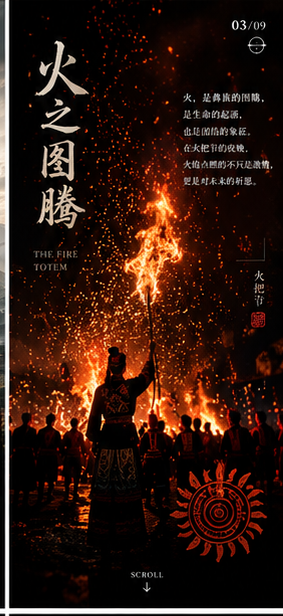
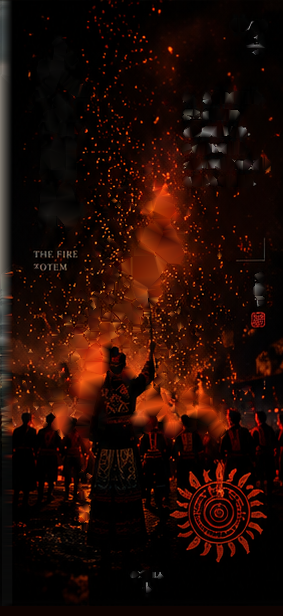
feat: 恢复干净无文字背景图 + 纯HTML动画文字层（去掉色块盖字方案）

diff --git a/index.html b/index.html
@@ -34,42 +34,21 @@ html,body,div,section{scrollbar-width:none!important;-ms-overflow-style:none!imp
 .slide{position:relative;height:100vh;scroll-snap-align:start;overflow:hidden;
   background-image:var(--img);background-size:100% 100%;background-position:center}
 
-/* ===== 共用：文字层 ===== */
+/* ===== 动画公共基类 ===== */
 .anim{position:absolute;z-index:10;pointer-events:none;opacity:0}
 
-/* ===== 共用：色块（盖原图字用） ===== */
-.cover-block{position:absolute;z-index:9;pointer-events:none;
-  background:rgba(0,0,0,.72);border-radius:2px;
-  /* 轻微模糊让边缘不生硬 */
-  box-shadow:0 0 6px rgba(0,0,0,.3)}
-
 /* ==================================================================
-   SLIDE 1: 封面
+   SLIDE 1: 封面 —— 基于原始图片 (283×616) 百分比定位
    ================================================================== */
 
-/* 原图文字位置（从图片分析得到）：
-   顶部 "中国·彝族"      : x=12%, y=8%
-   主标题 "彝境"        : x=10%, y=22%, 占 20%宽 × 12%高
-   英文 YI CULTURAL...  : x=12%, y=38%
-   标语 "让千年的火..."  : x=12%, y=50%
-   底部 "彝族非遗..."    : x=10%, y=84%
-*/
-
-/* ① 色块：顶部 + 主标题区域 */
-.s1-block1{left:8%;top:6%;width:30%;height:40%;background:rgba(0,0,0,.78)}
-/* ② 色块：中部标语区域 */
-.s1-block2{left:8%;top:48%;width:45%;height:12%;background:rgba(0,0,0,.72)}
-/* ③ 色块：底部 */
-.s1-block3{left:6%;top:82%;width:40%;height:6%;background:rgba(0,0,0,.68)}
-
 /* ① 顶部「中国·彝族」 */
-.cover .t-top{left:12%;top:8%;font-size:13px;color:rgba(255,255,255,.78);letter-spacing:6px;font-weight:500}
+.cover .t-top{left:16%;top:5%;font-size:12px;color:rgba(255,255,255,.75);letter-spacing:5px;font-weight:500}
 .cover .t-top{transform:translateY(10px)}
 .cover.active .t-top{opacity:1;transform:none;transition:opacity .6s ease-out .15s,transform .6s ease-out .15s}
 
 /* ② 主标题「彝境」：逐字弹入 */
-.cover .t-title{left:12%;top:22%;font-family:"Noto Serif SC","STSong","Songti SC","Ma Shan Zheng",serif;
-  font-size:88px;font-weight:900;letter-spacing:14px;line-height:1;
+.cover .t-title{left:8%;top:16%;font-family:"Noto Serif SC","STSong","Songti SC","Ma Shan Zheng",serif;
+  font-size:88px;font-weight:900;letter-spacing:12px;line-height:1;
   color:#fff;text-shadow:0 0 24px rgba(232,200,122,.7),0 0 48px rgba(232,200,122,.3)}
 .cover .t-title .ch{display:inline-block;opacity:0;transform:translateY(20px) scale(.85);
   transition:opacity .7s ease,transform .8s cubic-bezier(.22,1.2,.36,1)}
@@ -77,17 +56,18 @@ html,body,div,section{scrollbar-width:none!important;-ms-overflow-style:none!imp
 .cover.active .t-title .ch:nth-child(1){transition-delay:.55s}
 .cover.active .t-title .ch:nth-child(2){transition-delay:.72s}
 
-/* ② 英文 + 金色分割线 */
-.cover .t-en{left:12%;top:38%;font-size:11px;font-weight:500;letter-spacing:5px;color:rgba(255,255,255,.85);
+/* ② 英文 YI CULTURAL HERITAGE */
+.cover .t-en{left:24%;top:28%;font-size:10px;font-weight:500;letter-spacing:4px;color:rgba(255,255,255,.85);
   text-transform:uppercase;transform:translateY(8px)}
 .cover.active .t-en{opacity:1;transform:none;transition:opacity .6s ease-out .92s,transform .6s ease-out .92s}
 
-.cover .t-line{left:12%;top:43%;width:0;height:2px;border-radius:1px;
+/* ② 金色分割线 */
+.cover .t-line{left:24%;top:32%;width:0;height:2px;border-radius:1px;
   background:linear-gradient(90deg,#e8c87a,#f6e3a7);box-shadow:0 0 12px rgba(232,200,122,.7)}
-.cover.active .t-line{width:55%;transition:width 1s cubic-bezier(.16,1,.3,1) .95s}
+.cover.active .t-line{width:50%;transition:width 1s cubic-bezier(.16,1,.3,1) .95s}
 
-/* ③ 标语「让千年的火，继续燃烧。」逐字 */
-.cover .t-slogan{left:12%;top:50%;font-size:15px;color:rgba(255,255,255,.9);letter-spacing:4px;font-weight:500}
+/* ③ 标语「让千年的火，继续燃烧。」逐字打字机 */
+.cover .t-slogan{left:60%;top:66%;font-size:12px;color:rgba(255,255,255,.85);letter-spacing:3px;font-weight:500}
 .cover .t-slogan .ch{display:inline-block;opacity:0;transform:translateY(6px);transition:opacity .35s ease,transform .4s ease}
 .cover.active .t-slogan .ch{opacity:1;transform:none}
 .cover.active .t-slogan .ch:nth-child(1){transition-delay:1.2s}
@@ -103,27 +83,22 @@ html,body,div,section{scrollbar-width:none!important;-ms-overflow-style:none!imp
 .cover.active .t-slogan .ch:nth-child(11){transition-delay:2.00s}
 
 /* ④ 底部 */
-.cover .t-bot{left:10%;top:84%;font-size:12px;color:rgba(255,255,255,.7);letter-spacing:4px;transform:translateY(12px)}
+.cover .t-bot{left:10%;top:80%;font-size:11px;color:rgba(255,255,255,.7);letter-spacing:3px;transform:translateY(12px)}
 .cover.active .t-bot{opacity:1;transform:none;transition:opacity .7s ease-out 1.7s,transform .7s ease-out 1.7s}
-.cover .t-scroll{right:12%;top:84%;font-size:10px;color:rgba(255,255,255,.5);letter-spacing:3px;transform:translateY(12px)}
+.cover .t-scroll{right:12%;top:80%;font-size:10px;color:rgba(255,255,255,.5);letter-spacing:3px;transform:translateY(12px)}
 .cover.active .t-scroll{opacity:1;transform:none;transition:opacity .7s ease-out 1.9s,transform .7s ease-out 1.9s}
 
 /* ==================================================================
    SLIDES 2-8: 内页
    ================================================================== */
 
-/* 内页色块 */
-.inner-block1{left:6%;top:4%;width:24%;height:30%;background:rgba(0,0,0,.75)}  /* 左上标题区 */
-.inner-block2{left:55%;top:20%;width:42%;height:48%;background:rgba(0,0,0,.68)} /* 右侧描述区 */
-.inner-block3{left:6%;top:88%;width:24%;height:5%;background:rgba(0,0,0,.65)}  /* 底部编号 */
-
 /* 顶部编号 */
-.inner .t-top{left:10%;top:6%;font-size:11px;color:rgba(255,255,255,.55);letter-spacing:4px;font-weight:500;transform:translateY(8px)}
+.inner .t-top{right:10%;top:3%;font-size:10px;color:rgba(255,255,255,.5);letter-spacing:3px;font-weight:500;transform:translateY(8px)}
 .inner.active .t-top{opacity:1;transform:none;transition:opacity .5s ease-out .1s,transform .5s ease-out .1s}
 
-/* 左主标题 */
-.inner .t-title{left:10%;top:14%;font-family:"Noto Serif SC","STSong","Songti SC",serif;
-  font-size:42px;font-weight:900;letter-spacing:6px;line-height:1.15;
+/* 左主标题（原始位置 x~15%, y~15%） */
+.inner .t-title{left:12%;top:14%;font-family:"Noto Serif SC","STSong","Songti SC",serif;
+  font-size:42px;font-weight:900;letter-spacing:5px;line-height:1.15;
   color:#fff;text-shadow:0 0 18px rgba(232,200,122,.6),0 0 36px rgba(232,200,122,.25)}
 .inner .t-title .ch{display:inline-block;opacity:0;transform:translateX(-20px);transition:opacity .5s ease,transform .65s cubic-bezier(.34,1.56,.64,1)}
 .inner.active .t-title .ch{opacity:1;transform:none}
@@ -133,35 +108,28 @@ html,body,div,section{scrollbar-width:none!important;-ms-overflow-style:none!imp
 .inner.active .t-title .ch:nth-child(4){transition-delay:.66s}
 
 /* 英文副标题 */
-.inner .t-en{left:10%;top:26%;font-size:9px;font-weight:500;letter-spacing:3px;color:rgba(255,255,255,.8);text-transform:uppercase;transform:translateY(6px)}
+.inner .t-en{left:14%;top:26%;font-size:9px;font-weight:500;letter-spacing:3px;color:rgba(255,255,255,.8);text-transform:uppercase;transform:translateY(6px)}
 .inner.active .t-en{opacity:1;transform:none;transition:opacity .5s ease-out .82s,transform .5s ease-out .82s}
 
 /* 金色分割线 */
-.inner .t-line{left:10%;top:30%;width:0;height:2px;border-radius:1px;background:linear-gradient(90deg,#e8c87a,#f6e3a7);box-shadow:0 0 10px rgba(232,200,122,.6)}
-.inner.active .t-line{width:50%;transition:width .8s cubic-bezier(.16,1,.3,1) .85s}
+.inner .t-line{left:14%;top:30%;width:0;height:2px;border-radius:1px;background:linear-gradient(90deg,#e8c87a,#f6e3a7);box-shadow:0 0 10px rgba(232,200,122,.6)}
+.inner.active .t-line{width:48%;transition:width .8s cubic-bezier(.16,1,.3,1) .85s}
 
 /* 右描述文字 */
-.inner .t-desc{right:10%;top:28%;font-size:13px;line-height:1.9;color:rgba(255,255,255,.88);max-width:38%;text-align:left}
-.inner .t-desc p{opacity:0;transform:translateY(10px);margin-bottom:6px;transition:opacity .5s ease,transform .55s cubic-bezier(.16,1,.3,1)}
+.inner .t-desc{right:8%;top:28%;font-size:12px;line-height:1.9;color:rgba(255,255,255,.88);max-width:40%;text-align:left}
+.inner .t-desc p{opacity:0;transform:translateY(10px);margin-bottom:5px;transition:opacity .5s ease,transform .55s cubic-bezier(.16,1,.3,1)}
 .inner.active .t-desc p{opacity:1;transform:none}
 .inner.active .t-desc p:nth-child(1){transition-delay:.95s}
 .inner.active .t-desc p:nth-child(2){transition-delay:1.10s}
 .inner.active .t-desc p:nth-child(3){transition-delay:1.25s}
 
 /* 底部编号 */
-.inner .t-bot{left:10%;top:90%;font-size:11px;color:rgba(255,255,255,.55);letter-spacing:3px;transform:translateY(8px)}
+.inner .t-bot{left:12%;top:92%;font-size:10px;color:rgba(255,255,255,.5);letter-spacing:3px;transform:translateY(8px)}
 .inner.active .t-bot{opacity:1;transform:none;transition:opacity .5s ease-out 1.35s,transform .5s ease-out 1.35s}
-
-/* ==================================================================
-   SLIDE 5 特殊：黑与红 有右侧色卡
-   ================================================================== */
-.s5-block4{right:6%;top:38%;width:28%;height:38%;background:rgba(0,0,0,.62)}  /* 右侧色卡区 */
 
 /* ==================================================================
    SLIDE 9: 结尾
    ================================================================== */
-.ending-block1{left:22%;top:22%;width:56%;height:38%;background:rgba(0,0,0,.72)}  /* 中央大字区 */
-.ending-block2{left:22%;top:62%;width:56%;height:10%;background:rgba(0,0,0,.65)}  /* 底部标语 */
 
 .ending .t-center{left:30%;top:26%;font-family:"Noto Serif SC","STSong","Songti SC",serif;
   font-size:64px;font-weight:900;letter-spacing:10px;line-height:1.15;
@@ -179,21 +147,20 @@ html,body,div,section{scrollbar-width:none!important;-ms-overflow-style:none!imp
 .ending .t-line{left:30%;top:45%;width:0;height:2px;border-radius:1px;background:linear-gradient(90deg,#e8c87a,#f6e3a7);box-shadow:0 0 10px rgba(232,200,122,.6)}
 .ending.active .t-line{width:38%;transition:width .9s cubic-bezier(.16,1,.3,1) .92s}
 
-.ending .t-slogan{left:30%;top:52%;font-size:14px;color:rgba(255,255,255,.85);letter-spacing:3px;transform:translateY(8px)}
+.ending .t-slogan{left:30%;top:52%;font-size:13px;color:rgba(255,255,255,.85);letter-spacing:3px;transform:translateY(8px)}
 .ending.active .t-slogan{opacity:1;transform:none;transition:opacity .6s ease-out 1.1s,transform .6s ease-out 1.1s}
 
 /* ========== 移动端响应式 ========== */
 @media (max-width:375px){
-  .cover .t-title{font-size:72px;letter-spacing:12px}
-  .inner .t-title{font-size:34px;letter-spacing:4px}
-  .ending .t-center{font-size:52px;letter-spacing:8px}
-  .inner .t-desc{font-size:12px}
-  .cover .t-slogan{font-size:13px}
+  .cover .t-title{font-size:68px;letter-spacing:10px}
+  .inner .t-title{font-size:32px;letter-spacing:3px}
+  .ending .t-center{font-size:50px;letter-spacing:8px}
+  .inner .t-desc{font-size:11px}
 }
 @media (max-height:650px){
-  .cover .t-title{font-size:70px}
-  .inner .t-title{font-size:32px}
-  .ending .t-center{font-size:50px}
+  .cover .t-title{font-size:64px}
+  .inner .t-title{font-size:30px}
+  .ending .t-center{font-size:48px}
 }
 </style>
 </head>
@@ -207,12 +174,6 @@ html,body,div,section{scrollbar-width:none!important;-ms-overflow-style:none!imp
   <!-- ============ Slide 1: 封面 ============ -->
   <section class="slide cover active" data-index="0"
     style="--img:url('images/01-yijing.png')">
-    <!-- 色块（盖原图白色文字用） -->
-    <div class="cover-block s1-block1"></div>
-    <div class="cover-block s1-block2"></div>
-    <div class="cover-block s1-block3"></div>
-
-    <!-- 动画文字层 -->
     <div class="anim t-top">中国 · 彝族</div>
     <div class="anim t-title"><span class="ch">彝</span><span class="ch">境</span></div>
     <div class="anim t-en">YI CULTURAL HERITAGE</div>
@@ -229,10 +190,6 @@ html,body,div,section{scrollbar-width:none!important;-ms-overflow-style:none!imp
   <!-- ============ Slide 2: 远古回响 ============ -->
   <section class="slide inner" data-index="1"
     style="--img:url('images/02-huixiang.png')">
-    <div class="cover-block inner-block1"></div>
-    <div class="cover-block inner-block2"></div>
-    <div class="cover-block inner-block3"></div>
-
     <div class="anim t-top">02 / 09</div>
     <div class="anim t-title"><span class="ch">远</span><span class="ch">古</span><span class="ch">回</span><span class="ch">响</span></div>
     <div class="anim t-en">THE ECHO OF ANCIENT TIMES</div>
@@ -248,10 +205,6 @@ html,body,div,section{scrollbar-width:none!important;-ms-overflow-style:none!imp
   <!-- ============ Slide 3: 火之图腾 ============ -->
   <section class="slide inner" data-index="2"
     style="--img:url('images/03-huotuteng.png')">
-    <div class="cover-block inner-block1"></div>
-    <div class="cover-block inner-block2"></div>
-    <div class="cover-block inner-block3"></div>
-
     <div class="anim t-top">03 / 09</div>
     <div class="anim t-title"><span class="ch">火</span><span class="ch">之</span><span class="ch">图</span><span class="ch">腾</span></div>
     <div class="anim t-en">THE FIRE TOTEM</div>
@@ -267,10 +220,6 @@ html,body,div,section{scrollbar-width:none!important;-ms-overflow-style:none!imp
   <!-- ============ Slide 4: 指尖生花 ============ -->
   <section class="slide inner" data-index="3"
     style="--img:url('images/04-zhijian.png')">
-    <div class="cover-block inner-block1"></div>
-    <div class="cover-block inner-block2"></div>
-    <div class="cover-block inner-block3"></div>
-
     <div class="anim t-top">04 / 09</div>
     <div class="anim t-title"><span class="ch">指</span><span class="ch">尖</span><span class="ch">生</span><span class="ch">花</span></div>
     <div class="anim t-en">BLOOMING AT YOUR FINGERTIPS</div>
@@ -286,11 +235,6 @@ html,body,div,section{scrollbar-width:none!important;-ms-overflow-style:none!imp
   <!-- ============ Slide 5: 黑与红 ============ -->
   <section class="slide inner" data-index="4"
     style="--img:url('images/05-heiuhong.png')">
-    <div class="cover-block inner-block1"></div>
-    <div class="cover-block inner-block2"></div>
-    <div class="cover-block inner-block3"></div>
-    <div class="cover-block s5-block4"></div>
-
     <div class="anim t-top">05 / 09</div>
     <div class="anim t-title"><span class="ch">黑</span><span class="ch">与</span><span class="ch">红</span></div>
     <div class="anim t-en">THE COLORS OF YI</div>
@@ -306,10 +250,6 @@ html,body,div,section{scrollbar-width:none!important;-ms-overflow-style:none!imp
   <!-- ============ Slide 6: 漆韵千年 ============ -->
   <section class="slide inner" data-index="5"
     style="--img:url('images/06-qiyun.png')">
-    <div class="cover-block inner-block1"></div>
-    <div class="cover-block inner-block2"></div>
-    <div class="cover-block inner-block3"></div>
-
     <div class="anim t-top">06 / 09</div>
     <div class="anim t-title"><span class="ch">漆</span><span class="ch">韵</span><span class="ch">千</span><span class="ch">年</span></div>
     <div class="anim t-en">THE RHYTHM OF LACQUER</div>
@@ -325,10 +265,6 @@ html,body,div,section{scrollbar-width:none!important;-ms-overflow-style:none!imp
   <!-- ============ Slide 7: 银饰之美 ============ -->
   <section class="slide inner" data-index="6"
     style="--img:url('images/07-yinshi.png')">
-    <div class="cover-block inner-block1"></div>
-    <div class="cover-block inner-block2"></div>
-    <div class="cover-block inner-block3"></div>
-
     <div class="anim t-top">07 / 09</div>
     <div class="anim t-title"><span class="ch">银</span><span class="ch">饰</span><span class="ch">之</span><span class="ch">美</span></div>
     <div class="anim t-en">THE BEAUTY OF SILVER</div>
@@ -344,10 +280,6 @@ html,body,div,section{scrollbar-width:none!important;-ms-overflow-style:none!imp
   <!-- ============ Slide 8: 新生传承 ============ -->
   <section class="slide inner" data-index="7"
     style="--img:url('images/08-xinsheng.png')">
-    <div class="cover-block inner-block1"></div>
-    <div class="cover-block inner-block2"></div>
-    <div class="cover-block inner-block3"></div>
-
     <div class="anim t-top">08 / 09</div>
     <div class="anim t-title"><span class="ch">新</span><span class="ch">生</span><span class="ch">传</span><span class="ch">承</span></div>
     <div class="anim t-en">INHERITANCE AND INNOVATION</div>
@@ -363,9 +295,6 @@ html,body,div,section{scrollbar-width:none!important;-ms-overflow-style:none!imp
   <!-- ============ Slide 9: 生生不息 ============ -->
   <section class="slide ending" data-index="8"
     style="--img:url('images/09-shengsheng.png')">
-    <div class="cover-block ending-block1"></div>
-    <div class="cover-block ending-block2"></div>
-
     <div class="anim t-center"><span class="ch">生</span><span class="ch">生</span><span class="ch">不</span><span class="ch">息</span></div>
     <div class="anim t-en">FOREVER ALIVE</div>
     <div class="anim t-line"></div>
